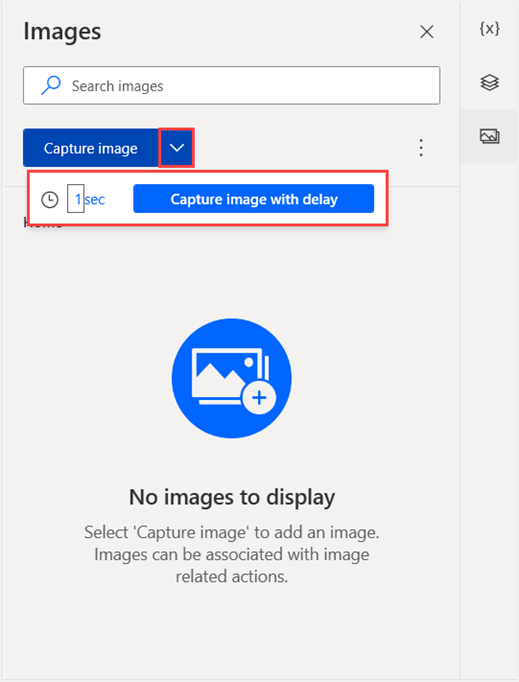
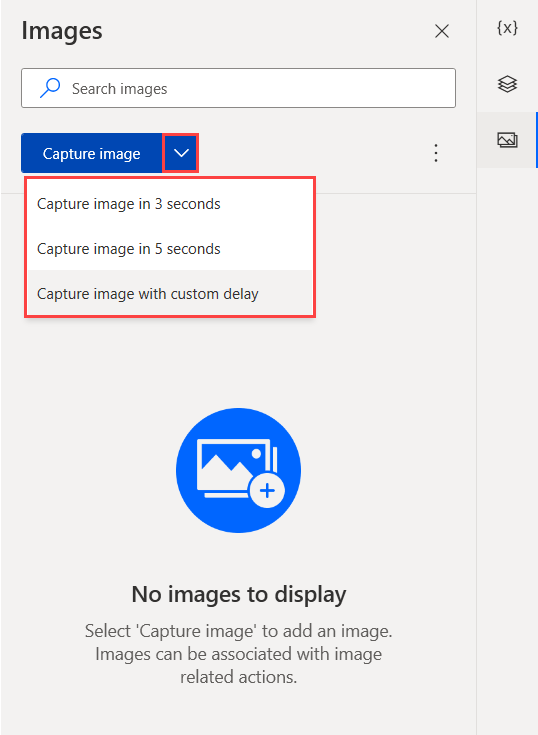
New capture image with delay options

diff --git a/articles/desktop-flows/images.md b/articles/desktop-flows/images.md
@@ -24,7 +24,7 @@ Select **Capture image**, and click and drag the cursor on the area you want to 
 
 ![The Capture image option in the Images tab.](\media\images\capture-image.png)
 
-Alternatively, select the arrow on the **Capture image** button to capture images on a timer. Select the number of seconds and press **Capture image with delay**.
+Alternatively, select the arrow on the **Capture image** button to capture images on a timer. Then, choose one of the suggested time options or **Capture image with custom delay** to set a custom delay time.
 
 ![The Capture image with delay option in the images tab.](\media\images\delay-capture.png)
 
